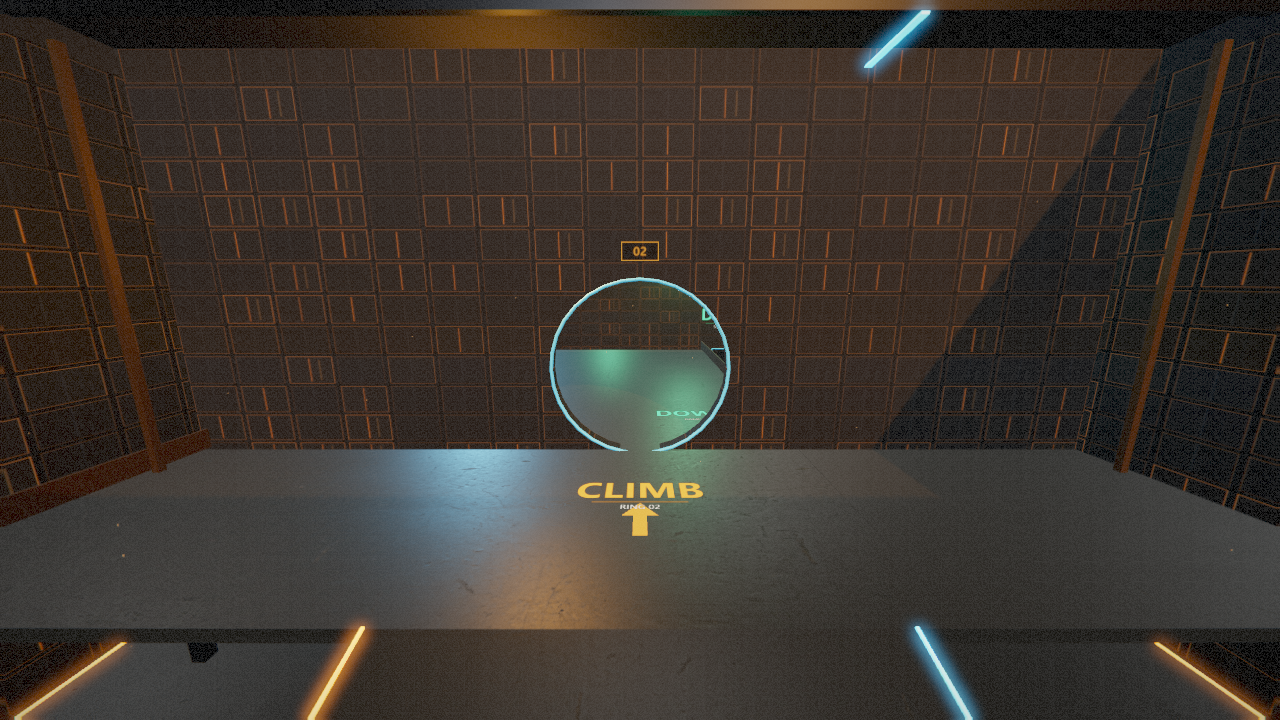
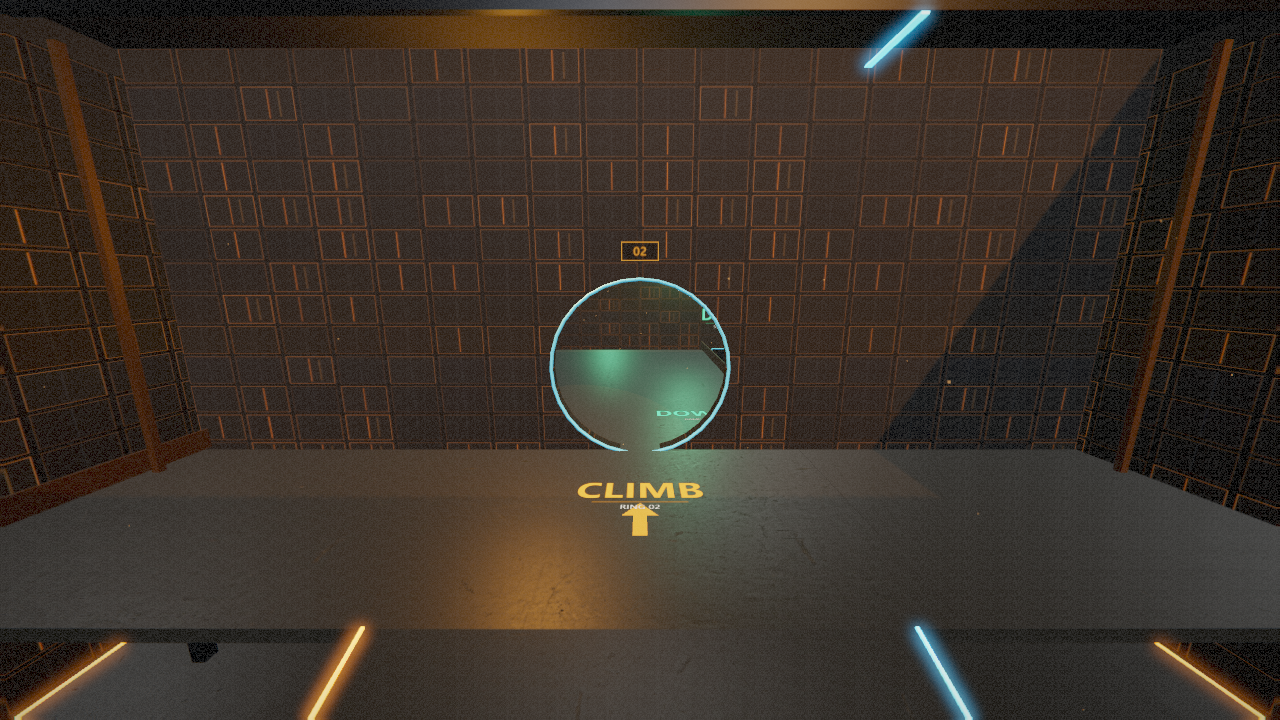
Remove the indoor fill-light hotspot at the start
The cool directional fill produced a grazing-angle specular bloom on the floor by the start arch. The hall is already lit by the warm sun, hemisphere, ambient, point pools and emissive strips, so drop the fill and refresh the indoor still.

diff --git a/apps/server/public/sim/index.html b/apps/server/public/sim/index.html
@@ -6,7 +6,7 @@
     <meta name="viewport" content="width=device-width,initial-scale=1,viewport-fit=cover" />
     <meta name="theme-color" content="#05070a" />
     <title>FPV Rig — sim</title>
-    <link rel="stylesheet" href="./hud.css?v=11" />
+    <link rel="stylesheet" href="./hud.css?v=12" />
   </head>
   <body>
     <canvas id="view"></canvas>
@@ -106,6 +106,6 @@
       <span id="helpPhone">phone: open /tx/ over adb reverse</span>
     </div>
 
-    <script type="module" src="./sim.js?v=11"></script>
+    <script type="module" src="./sim.js?v=12"></script>
   </body>
 </html>

diff --git a/apps/sim/src/indoor.ts b/apps/sim/src/indoor.ts
@@ -185,12 +185,6 @@ export async function buildIndoorWorld(renderer: THREE.WebGLRenderer, assets: As
   scene.add(sun);
   scene.add(sun.target);
 
-  const fill = new THREE.DirectionalLight(0x7cc5e8, 1.25);
-  fill.position.set(-22, 18, -94);
-  fill.target.position.set(0, 5, -42);
-  scene.add(fill);
-  scene.add(fill.target);
-
   scene.add(new THREE.HemisphereLight(0xffc38c, 0x080c12, 1.1));
   scene.add(new THREE.AmbientLight(0x91a9c4, 0.42));
 
